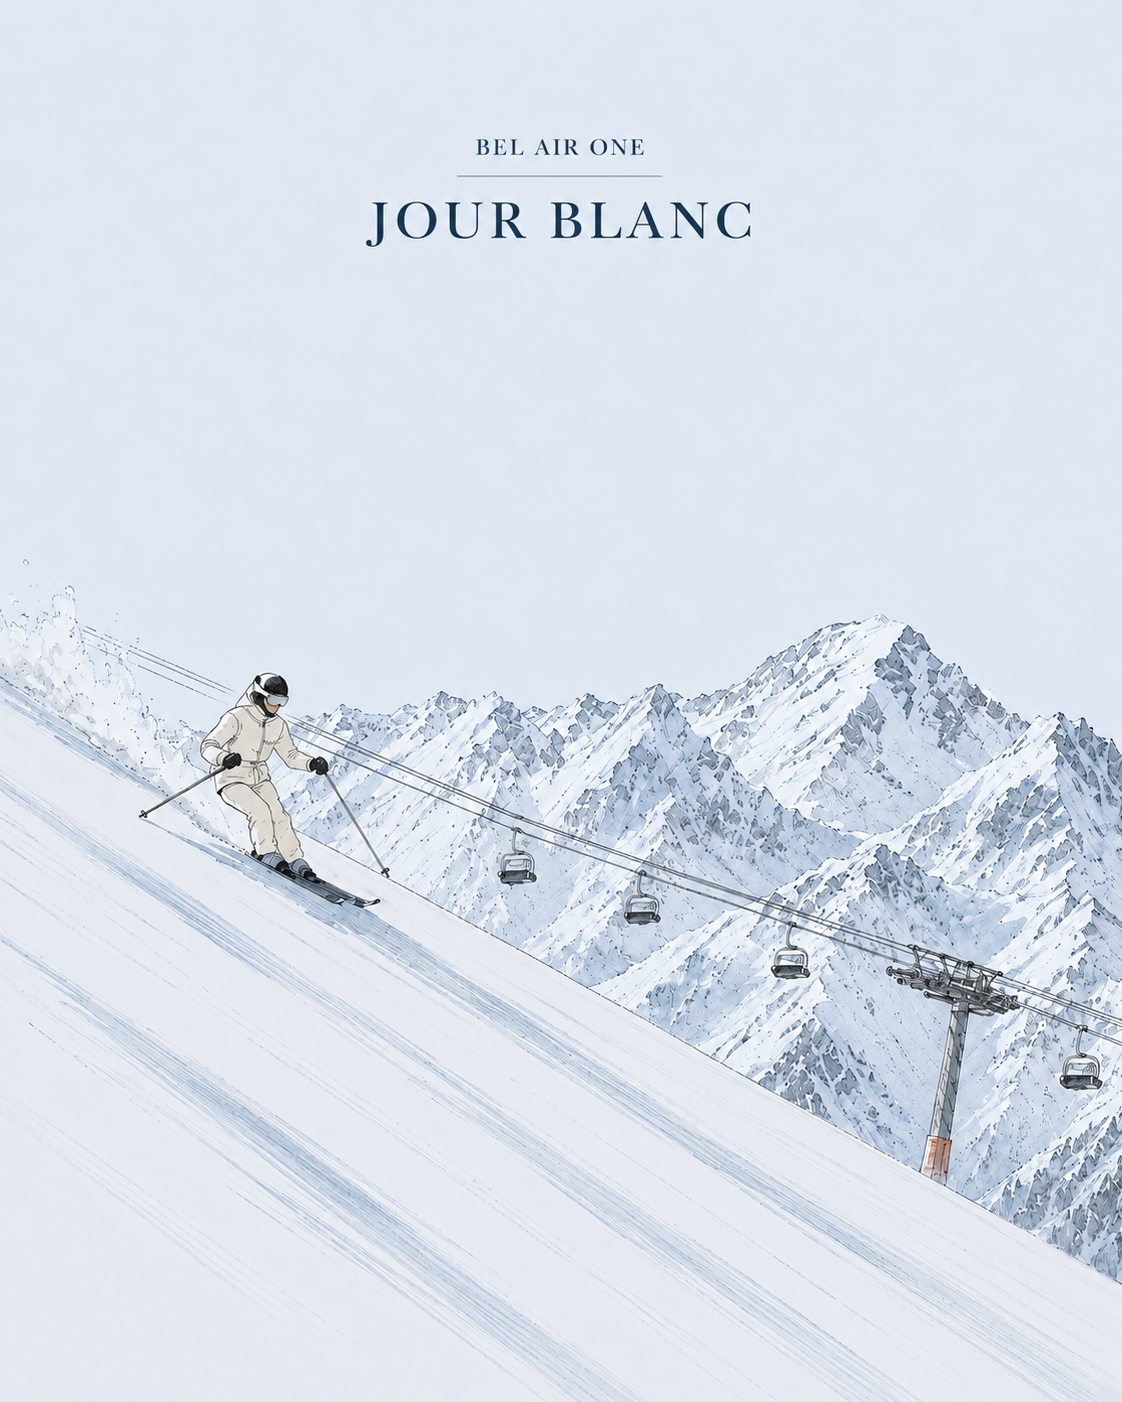
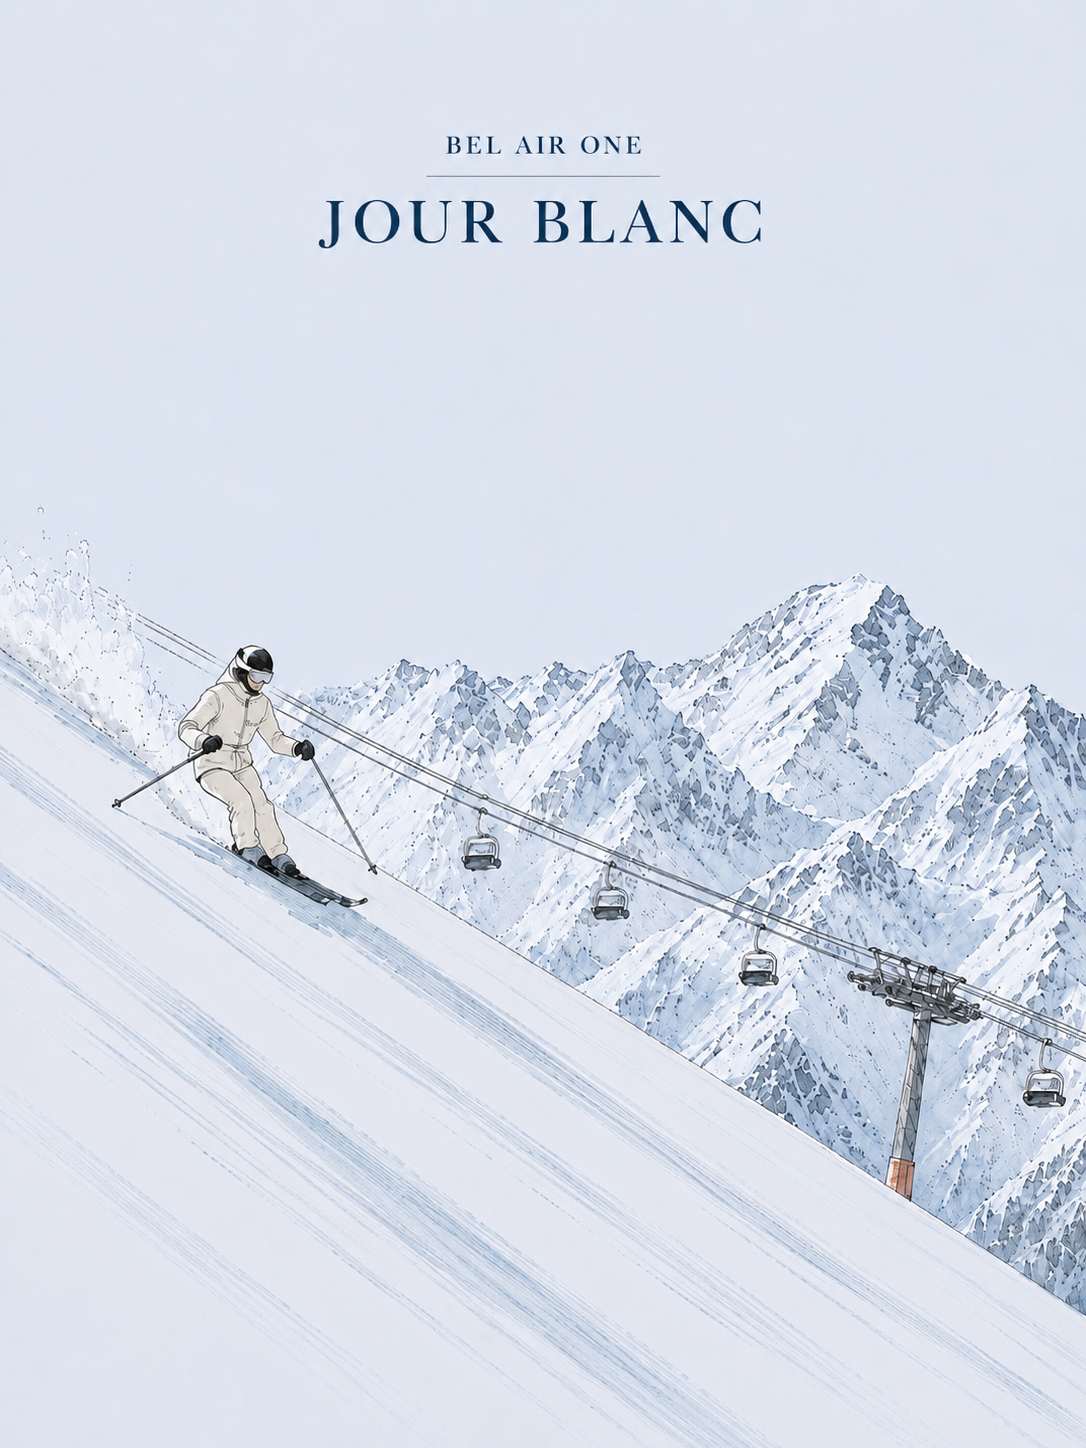
Show full Jour Blanc mobile background

diff --git a/src/pages/Home.tsx b/src/pages/Home.tsx
@@ -122,9 +122,9 @@ export default function Home() {
           </div>
         </motion.article>
 
-        <div className="relative mx-auto mt-20 grid max-w-[1180px] grid-cols-1 gap-y-10 overflow-hidden bg-[#f8fbfd] md:grid-cols-4 md:gap-0">
+        <div className="relative mx-auto mt-20 grid min-h-[1320px] max-w-[1180px] grid-cols-1 gap-y-10 overflow-hidden bg-[#f8fbfd] md:min-h-0 md:grid-cols-4 md:gap-0">
           <div
-            className="absolute inset-0 bg-cover bg-center md:hidden"
+            className="absolute inset-0 bg-contain bg-top bg-no-repeat md:hidden"
             style={{ backgroundImage: "url('/images/jour-blanc-alpine-mobile.png')" }}
             aria-hidden="true"
           />
@@ -142,7 +142,7 @@ export default function Home() {
               transition={{ duration: 0.55, delay: index * 0.06, ease: "easeOut" }}
               className="group relative overflow-hidden"
             >
-              <div className="aspect-[4/5] md:aspect-[4/5]" />
+              <div className="min-h-[330px] md:aspect-[4/5] md:min-h-0" />
               <div className="absolute inset-x-0 bottom-0 px-4 pb-8 pt-16 text-center text-[#243346] md:pb-5">
                 <h3 className="text-[12px] md:text-[14px] tracking-[0.04em] normal-case">
                   {product.name}
